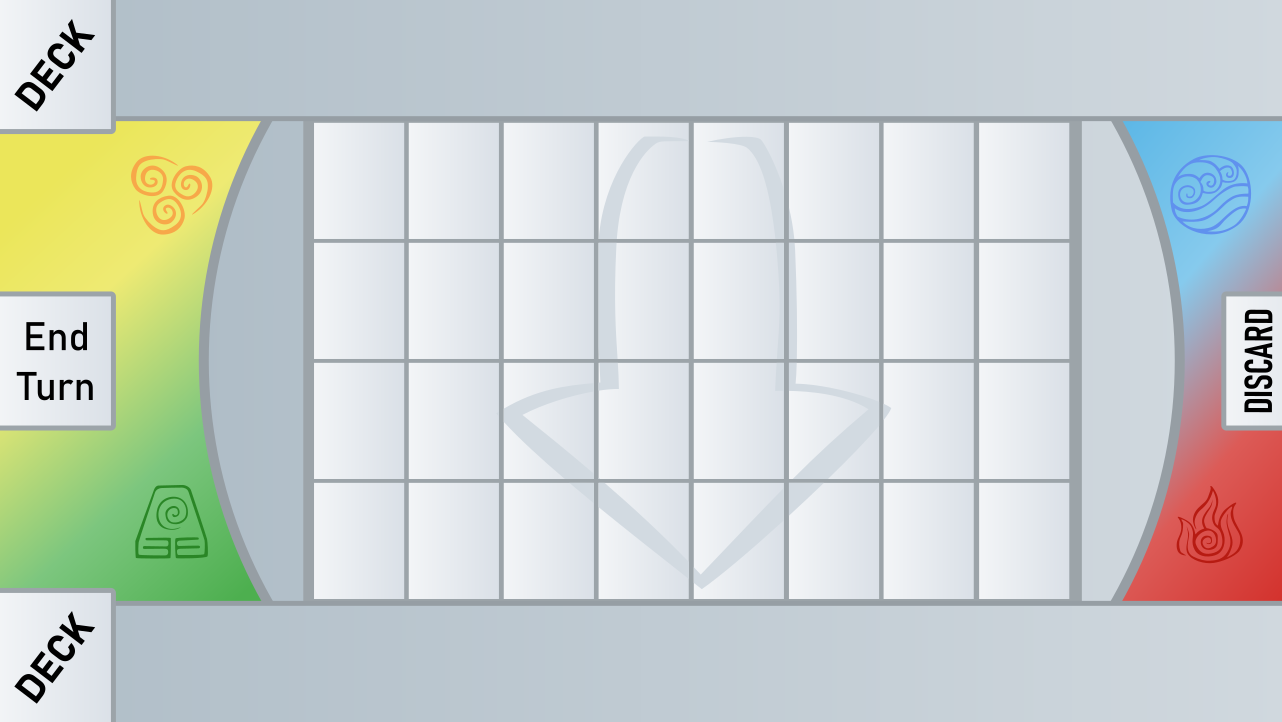
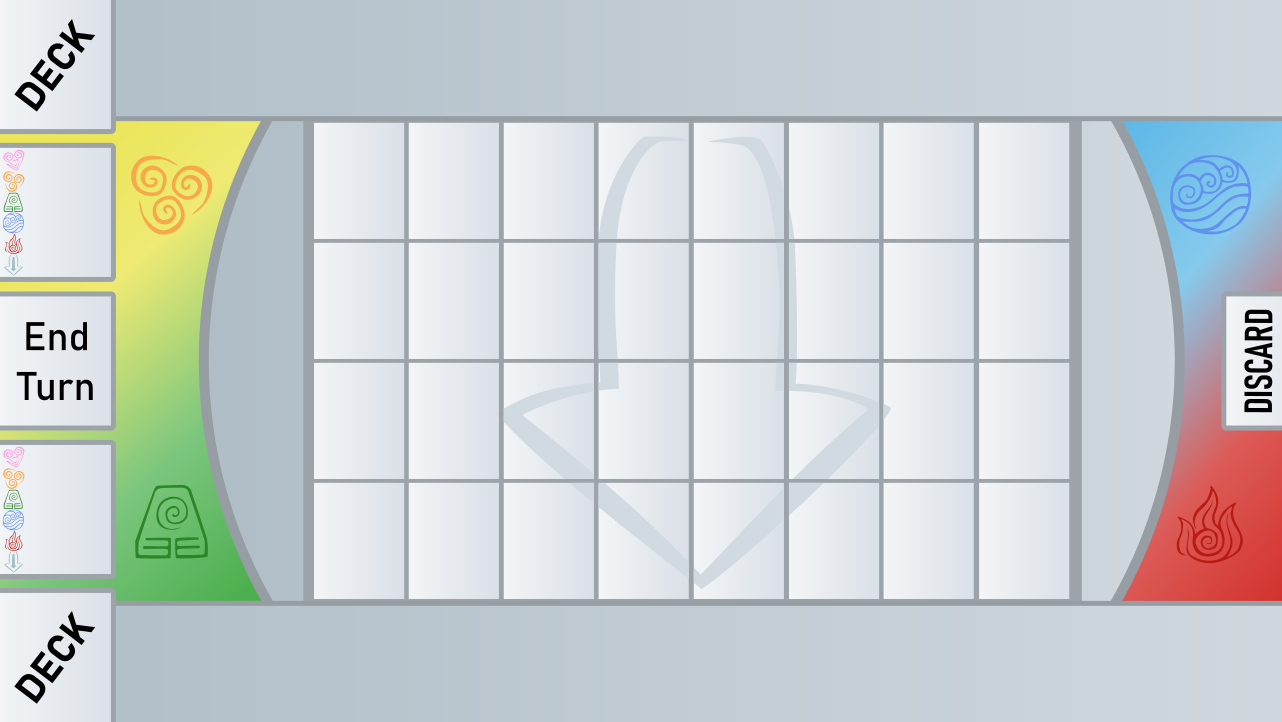
Added stats display

Changed region(s): [[0.0, 0.6094, 0.0936, 0.8227], [0.0, 0.1828, 0.0936, 0.3961]]

diff --git a/src/main/java/com/avatarduel/sprite/GameDrawer.java b/src/main/java/com/avatarduel/sprite/GameDrawer.java
@@ -12,6 +12,7 @@ import com.avatarduel.model.Element;
 import com.avatarduel.player.Player;
 
 import javafx.scene.canvas.GraphicsContext;
+import javafx.scene.text.Font;
 
 public class GameDrawer {
     private CardSprite highligthtedCard = null;
@@ -94,44 +95,45 @@ public class GameDrawer {
     // p : Player yang kartunya akan digambar
     private void drawStats (GraphicsContext gc, Player p) {
         final double yPos;
-        // if (p.isTopPlayer) {
-        //     yPos = ...;
-        // } else {
-        //     yPos = ...;
-        // }
+        final double xPos = 28;
+        if (p.getIsTopPlayer()) {
+            yPos = 167;
+        } else {
+            yPos = 463;
+        }
 
-        // gc.drawImage("Backdrop", x, y + yPos, w, h));
-        // gc.drawImage("EarthLogo", x, y + yPos, w, h));
-        // gc.drawImage("FireLogo", x, y + yPos, w, h));
-        // gc.drawImage("WaterLogo", x, y + yPos, w, h));
-        // gc.drawImage("AirLogo", x, y + yPos, w, h));
+        String healthPoints = p.getPlayerStats().getHealth()
+                + "/80";
 
-        String earthSkill = "EARTH: "
-                + p.getPlayerStats().getRemainingPower(Element.EARTH)
+        String earthSkill = p.getPlayerStats().getRemainingPower(Element.EARTH)
                 + "/"
                 + p.getPlayerStats().getPower(Element.EARTH);
 
-        String fireSkill = "FIRE: "
-                + p.getPlayerStats().getRemainingPower(Element.FIRE)
+        String fireSkill = p.getPlayerStats().getRemainingPower(Element.FIRE)
                 + "/"
                 + p.getPlayerStats().getPower(Element.FIRE);
 
-        String waterSkill = "WATER: "
-                + p.getPlayerStats().getRemainingPower(Element.WATER)
+        String waterSkill = p.getPlayerStats().getRemainingPower(Element.WATER)
                 + "/"
                 + p.getPlayerStats().getPower(Element.WATER);
 
-        String airSkill = "AIR: "
-                + p.getPlayerStats().getRemainingPower(Element.AIR)
+        String airSkill = p.getPlayerStats().getRemainingPower(Element.AIR)
                 + "/"
                 + p.getPlayerStats().getPower(Element.AIR);
 
-        // gc.save();
-        // gc.setFont(new Font("Arial", 30));
-        // gc.fillText(earthSkill, x, y + yPos);
-        // gc.fillText(fireSkill, x, y + yPos);
-        // gc.fillText(waterSkill, x, y + yPos);
-        // gc.fillText(airSkill, x, y + yPos);
+        String energySkill = p.getPlayerStats().getRemainingPower(Element.ENERGY)
+                + "/"
+                + p.getPlayerStats().getPower(Element.ENERGY);
+
+        gc.save();
+        gc.setFont(new Font("Arial", 20));
+        gc.fillText(healthPoints, xPos, 0 + yPos);
+        gc.fillText(airSkill, xPos, 21 + yPos);
+        gc.fillText(earthSkill, xPos, 42 + yPos);
+        gc.fillText(waterSkill, xPos, 63 + yPos);
+        gc.fillText(fireSkill, xPos, 84 + yPos);
+        gc.fillText(energySkill, xPos, 105 + yPos);
+        gc.restore();
     }
 
     // Menggambar versi penuh kartu yang memiliki semua info tentang kartu

diff --git a/src/main/java/com/avatarduel/sprite/EndButton.java b/src/main/java/com/avatarduel/sprite/EndButton.java
@@ -11,7 +11,7 @@ public class EndButton implements IMouseClickSub {
     public EndButton (GameManager gm) {
         this.gm = gm;
         spr = new Sprite("com/avatarduel/generic/image/EndTurnButton.png");
-        spr.setPivot(0, 0.5);
+        spr.setPivot(0.05, 0.5);
         spr.changePos(0, 360, true);
         gm.getGameDrawer().addToDrawList(spr);
     }
